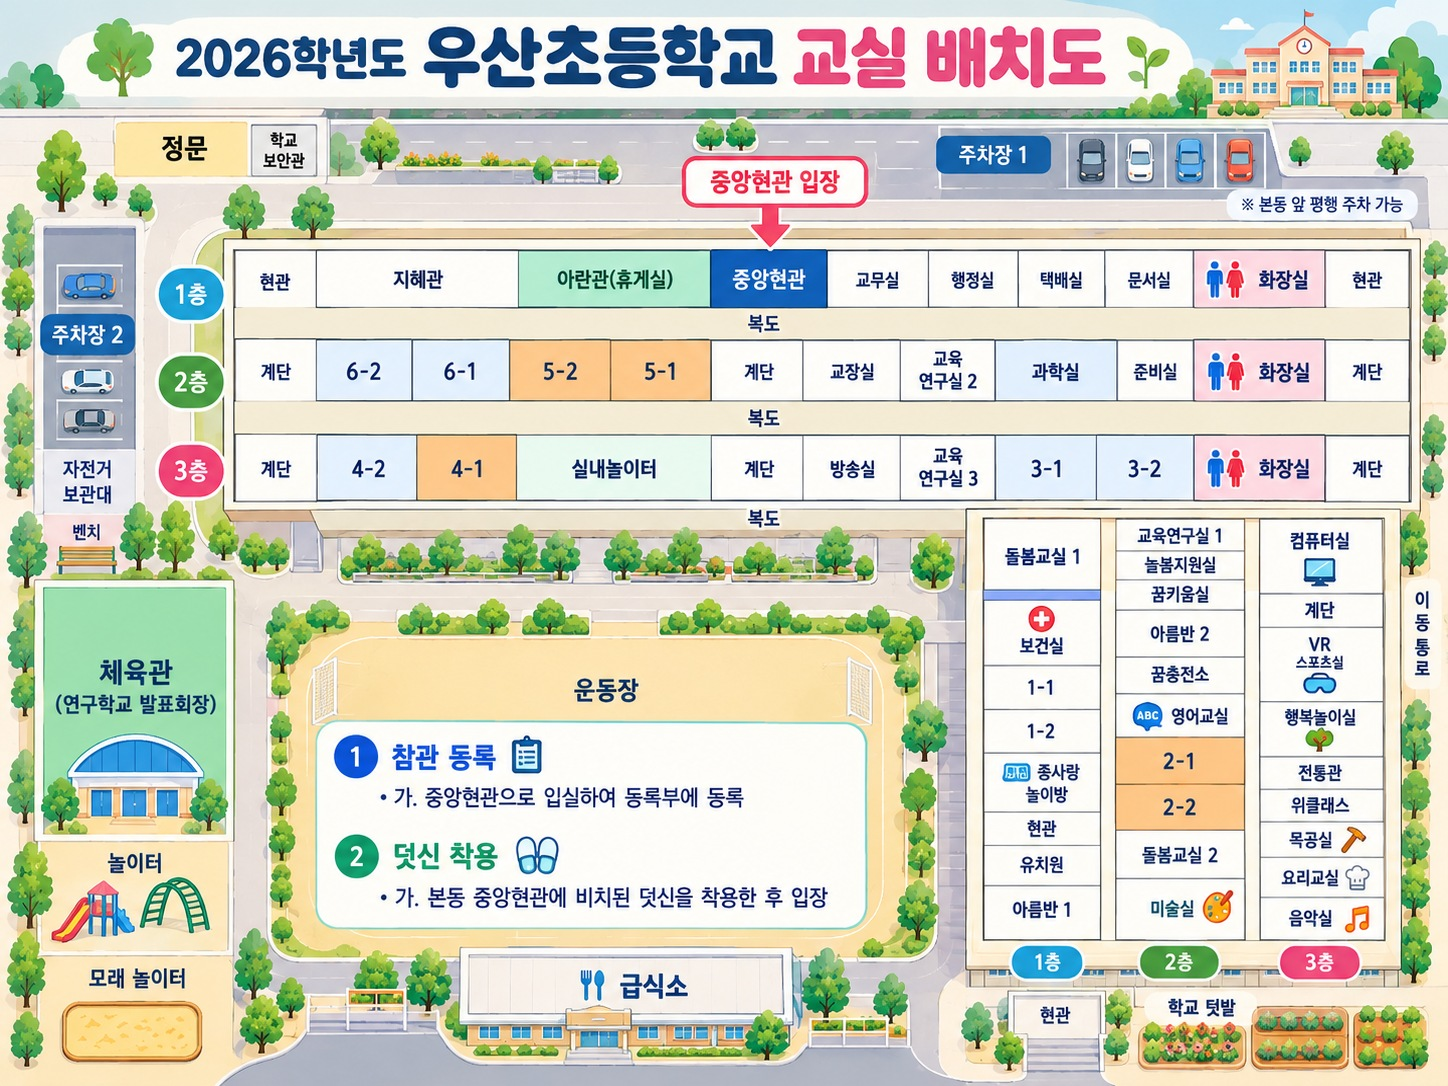
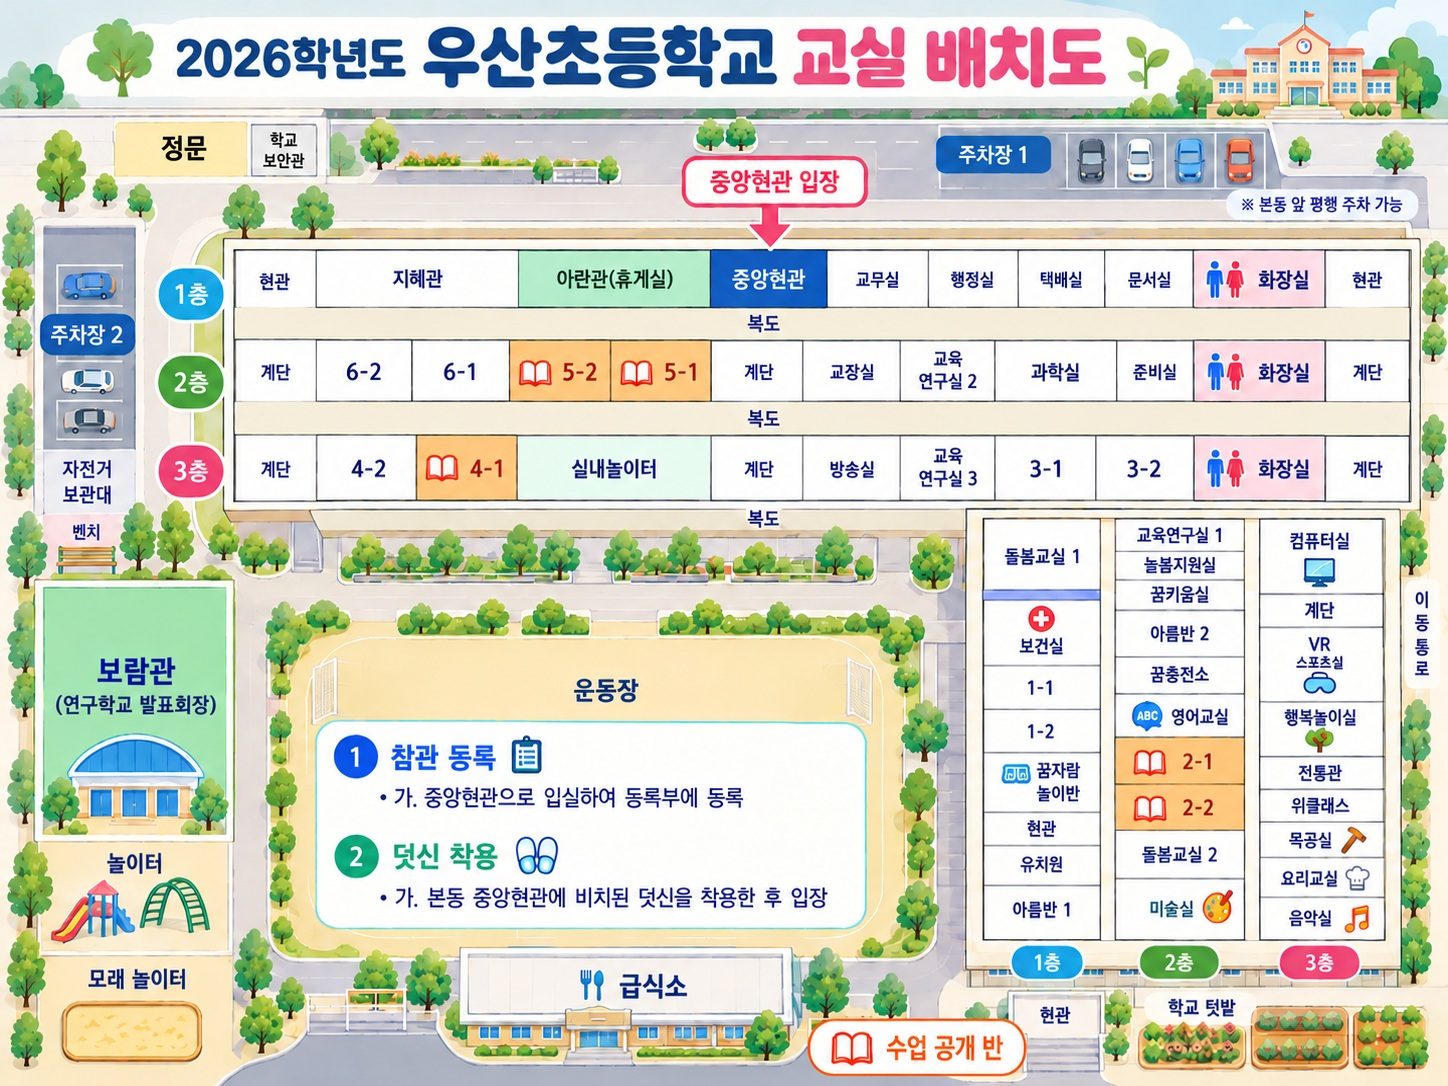
메뉴 지도 변경

diff --git a/src/data/resources.js b/src/data/resources.js
@@ -1,25 +1,35 @@
 /**
- * 연구학교 일반화 자료
- * title, description, file 을 추가·수정하면 목록이 바뀝니다.
- * file은 public 폴더 기준 경로입니다. 아직 파일이 없으면 null 로 둡니다.
+ * 연구학교 운영 성과 나눔 자료
+ * PDF를 등록할 때 public/materials/ 폴더에 파일을 넣고 file 값을 수정하세요.
+ * 패들렛 주소가 정해지면 url에 https:// 로 시작하는 주소를 입력하세요.
  */
 export const resources = [
   {
     id: 'report',
-    title: '연구학교 운영 보고서(요약)',
-    description: '연구 주제, 운영 과정, 주요 성과를 한눈에 볼 수 있는 요약 자료입니다.',
-    file: null,
+    title: '연구학교 보고서',
+    description: '연구학교 운영 과정과 성과를 담은 보고서입니다.',
+    type: 'pdf',
+    file: null, // 예: 'materials/research-report.pdf'
   },
   {
-    id: 'model',
-    title: '수업 모형 안내 자료',
-    description: '연구학교에서 적용한 수업 모형의 흐름과 활용 방법을 안내합니다.',
-    file: null,
+    id: 'generalization',
+    title: '일반화 자료',
+    description: '학교 현장에서 활용할 수 있는 연구학교 일반화 자료입니다.',
+    type: 'pdf',
+    file: null, // 예: 'materials/generalization.pdf'
   },
   {
-    id: 'toolkit',
-    title: '일반화 자료집',
-    description: '다른 학교에서 활용할 수 있는 활동지, 체크리스트 등 일반화 자료입니다.',
-    file: null,
+    id: 'padlet',
+    title: '패들렛',
+    description: '연구학교 운영 성과와 자료를 패들렛에서 확인합니다.',
+    type: 'link',
+    url: null, // 예: 'https://padlet.com/...'
+  },
+  {
+    id: 'leaflet',
+    title: '리플렛',
+    description: '연구학교 발표회 안내 리플렛입니다.',
+    type: 'pdf',
+    file: null, // 예: 'materials/leaflet.pdf'
   },
 ]

diff --git a/src/pages/ResourcesPage.jsx b/src/pages/ResourcesPage.jsx
@@ -6,23 +6,33 @@ export function ResourcesPage() {
   return (
     <section>
       <PageHeader
-        title="연구학교 일반화 자료"
-        description="연구학교에서 제작한 자료를 확인하고 내려받을 수 있습니다."
+        title="연구학교 운영 성과 나눔 자료"
+        description="연구학교 보고서와 일반화 자료, 패들렛, 리플렛을 확인할 수 있습니다."
       />
       <ul className="card-grid">
-        {resources.map((item) => (
-          <li key={item.id} className="info-card">
-            <h2>{item.title}</h2>
-            <p>{item.description}</p>
-            {item.file ? (
-              <a className="btn" href={asset(item.file)} target="_blank" rel="noreferrer">
-                자료 보기
-              </a>
-            ) : (
-              <p className="hint">자료 파일은 추후 연결됩니다.</p>
-            )}
-          </li>
-        ))}
+        {resources.map((item) => {
+          const isPdf = item.type === 'pdf'
+          const available = isPdf ? Boolean(item.file) : Boolean(item.url)
+          return (
+            <li key={item.id} className="info-card">
+              <h2>{item.title}</h2>
+              <p>{item.description}</p>
+              {available ? (
+                isPdf ? (
+                  <a className="btn" href={asset(item.file)} download>
+                    PDF 다운로드
+                  </a>
+                ) : (
+                  <a className="btn" href={item.url} target="_blank" rel="noopener noreferrer">
+                    패들렛 바로가기 ↗
+                  </a>
+                )
+              ) : (
+                <p className="hint">{isPdf ? 'PDF 자료 준비 중' : '패들렛 링크 준비 중'}</p>
+              )}
+            </li>
+          )
+        })}
       </ul>
     </section>
   )

diff --git a/src/components/Layout.jsx b/src/components/Layout.jsx
@@ -6,7 +6,7 @@ const navItems = [
   { to: '/map', label: '지도', full: '학교 안내지도' },
   { to: '/lessons', label: '지도안', full: '수업 지도안' },
   { to: '/feedback', label: '의견', full: '참관 의견' },
-  { to: '/resources', label: '자료', full: '일반화 자료' },
+  { to: '/resources', label: '자료', full: '운영 성과 나눔 자료' },
 ]
 
 export function Layout({ routeName, children }) {

diff --git a/src/pages/HomePage.jsx b/src/pages/HomePage.jsx
@@ -24,8 +24,8 @@ const menus = [
   },
   {
     to: '/resources',
-    title: '연구학교 일반화 자료',
-    desc: '연구 성과와 활용 자료를 확인합니다.',
+    title: '연구학교 운영 성과 나눔 자료',
+    desc: '보고서, 일반화 자료, 패들렛, 리플렛을 확인합니다.',
   },
 ]
 
